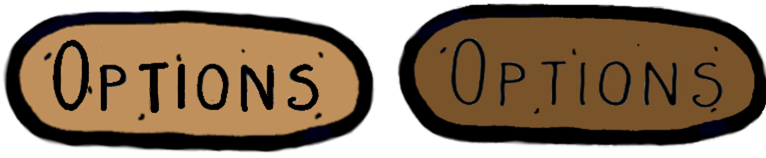
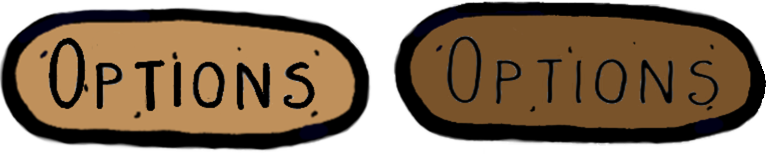
options

diff --git a/src/scenes/OptionsScene.js b/src/scenes/OptionsScene.js
@@ -18,11 +18,11 @@ export default class OptionsScene extends Phaser.Scene
     this.load.script('webfont', '//ajax.googleapis.com/ajax/libs/webfont/1/webfont.js');
     this.load.audio('InGame','./assets/sounds/InGame2.wav');
     this.load.audio("pausefx","./assets/sounds/Kindlich Text.mp3");
-    this.load.image("optionsTitle", "./assets/fullSized/Options Title.png");
+    this.load.image("storeback", "./assets/fullSized/Store Back.png");
 
     //Declare variables for center of the scene
     this.centerX = this.cameras.main.width/2;
-    this.centerY=this.cameras.main.height/2;
+    this.centerY = this.cameras.main.height/2;
   }
 
   create()
@@ -37,64 +37,77 @@ export default class OptionsScene extends Phaser.Scene
       volume:.3,
       loop:true
     });
-    this.pausefx=this.sound.add('pausefx');
-    //Create the scenes
+    this.pausefx = this.sound.add('pausefx');
+
+    //Load fonts
     WebFont.load
     ({
-      google:{
-        families: ['Permanent Marker', 'Modak', 'Anton', 'Amatic SC']
+      google:
+      {
+        families: ['Permanent Marker', 'Modak', 'Anton', 'Neucha']
       }
     });
-
-    //Background
-    this.cameras.main.setBackgroundColor(0xffe6cc);
-
-    //Display title
-    this.add.sprite(400, 150, "optionsTitle").setScale(0.3);
+    
+    //Display background
+    this.add.sprite(400, 280, 'storeback').setScale(0.6);
 
     //Display text
-    var text = 'Press Enter to return to game.\n' +
-               'Press F11 to full screen. \n' +
-               'Press ESC to return to main menu.\n' +
-               'Press R to restart level.';
-    this.spellOutText(175, 250, 550, text, 50, 20, '#000000', 'Amatic SC');
+    var text1 = 'Enter: Return to game\n' +
+                'F11: Full screen';
+    var text2 = 'ESC: Main menu\n' +
+                'R: Restart level';
+    this.spellOutText(100, 285, 550, text1, 40, 20, '#000000', 'Neucha');
+    this.spellOutText(450, 285, 550, text2, 40, 20, '#000000', 'Neucha');
   }
 
-  spellOutText(x, y, width, text, fontSize, speed, fill, font){
-    var sentence = this.add.text(x,y, "", {
-      fontSize: fontSize,
-      fill: fill,
-      fontFamily: font
-    });
-    var currentLine = this.add.text(10,10,"", {
-      fontSize:fontSize,
-      fontFamily: font
-    });
-    currentLine.alpha=0;
+  //Gradually spells text out
+  spellOutText(x, y, width, text, fontSize, speed, fill, font)
+  {
+    var sentence = this.add.text
+    (x, y, "",
+      {
+        fontSize: fontSize,
+        fill: fill,
+        fontFamily: font
+      }
+    );
+    var currentLine = this.add.text
+    (10, 10, "",
+      {
+        fontSize:fontSize,
+        fontFamily: font
+      }
+    );
+    currentLine.alpha = 0;
     var index = 0;
     var timer;
 
     //Start the text loop
     startLoop(this);
 
-    function startLoop(that){
-      timer = that.time.addEvent({
+    function startLoop(that)
+    {
+      timer = that.time.addEvent
+      ({
         delay: speed,
         callback: addChar,
         callbackScope: this,
         loop: true
       });
 
-      function addChar(){
+      function addChar()
+      {
         sentence.text += text[index];
         currentLine.text += text[index];
 
-        if (currentLine.width > width && text[index] === " "){
+        if (currentLine.width > width && text[index] === " ")
+        {
           sentence.text +=  "\n";
           currentLine.text = "";
         }
 
-        if (index >= text.length - 1){
+        if (index >= text.length - 1)
+        {
           timer.remove();
           console.log("stop");
         }
